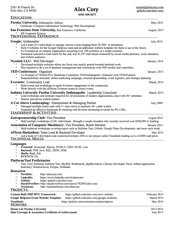
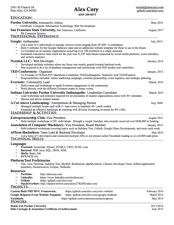
testing new fonts for windows compatibility

Changed region(s): [[0.0575, 0.8089, 0.9483, 0.9644]]

diff --git a/styles/css/main1.css b/styles/css/main1.css
@@ -20,7 +20,7 @@ h5,
 h6 {
     margin: 0 0 35px;
     text-transform: uppercase;
-    font-family: "Myriad Set Pro","Lucida Grande","Helvetica Neue","Helvetica","Arial","Verdana","sans-serif";
+    font-family: "Helvetica Neue",Helvetica,Arial,sans-serif;
     font-weight: 100;
     letter-spacing: 1px;
 }
